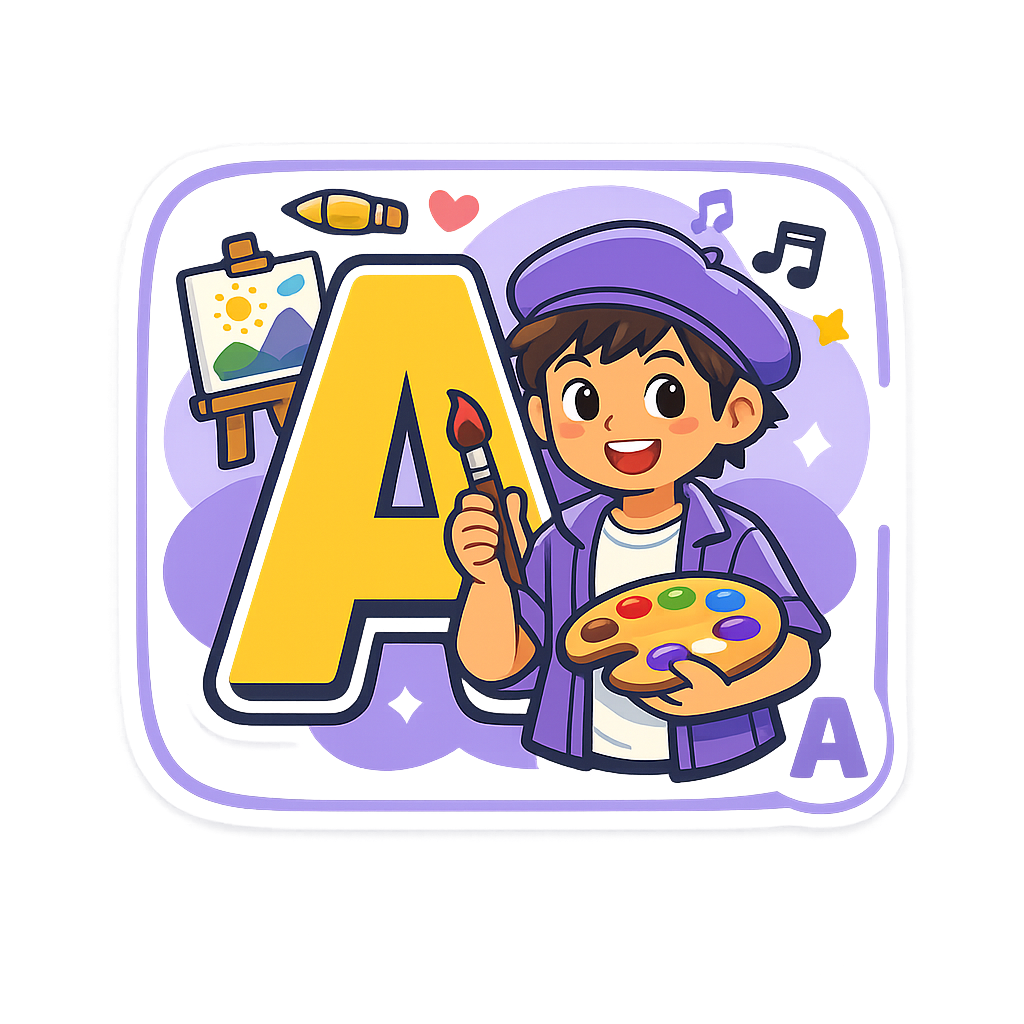
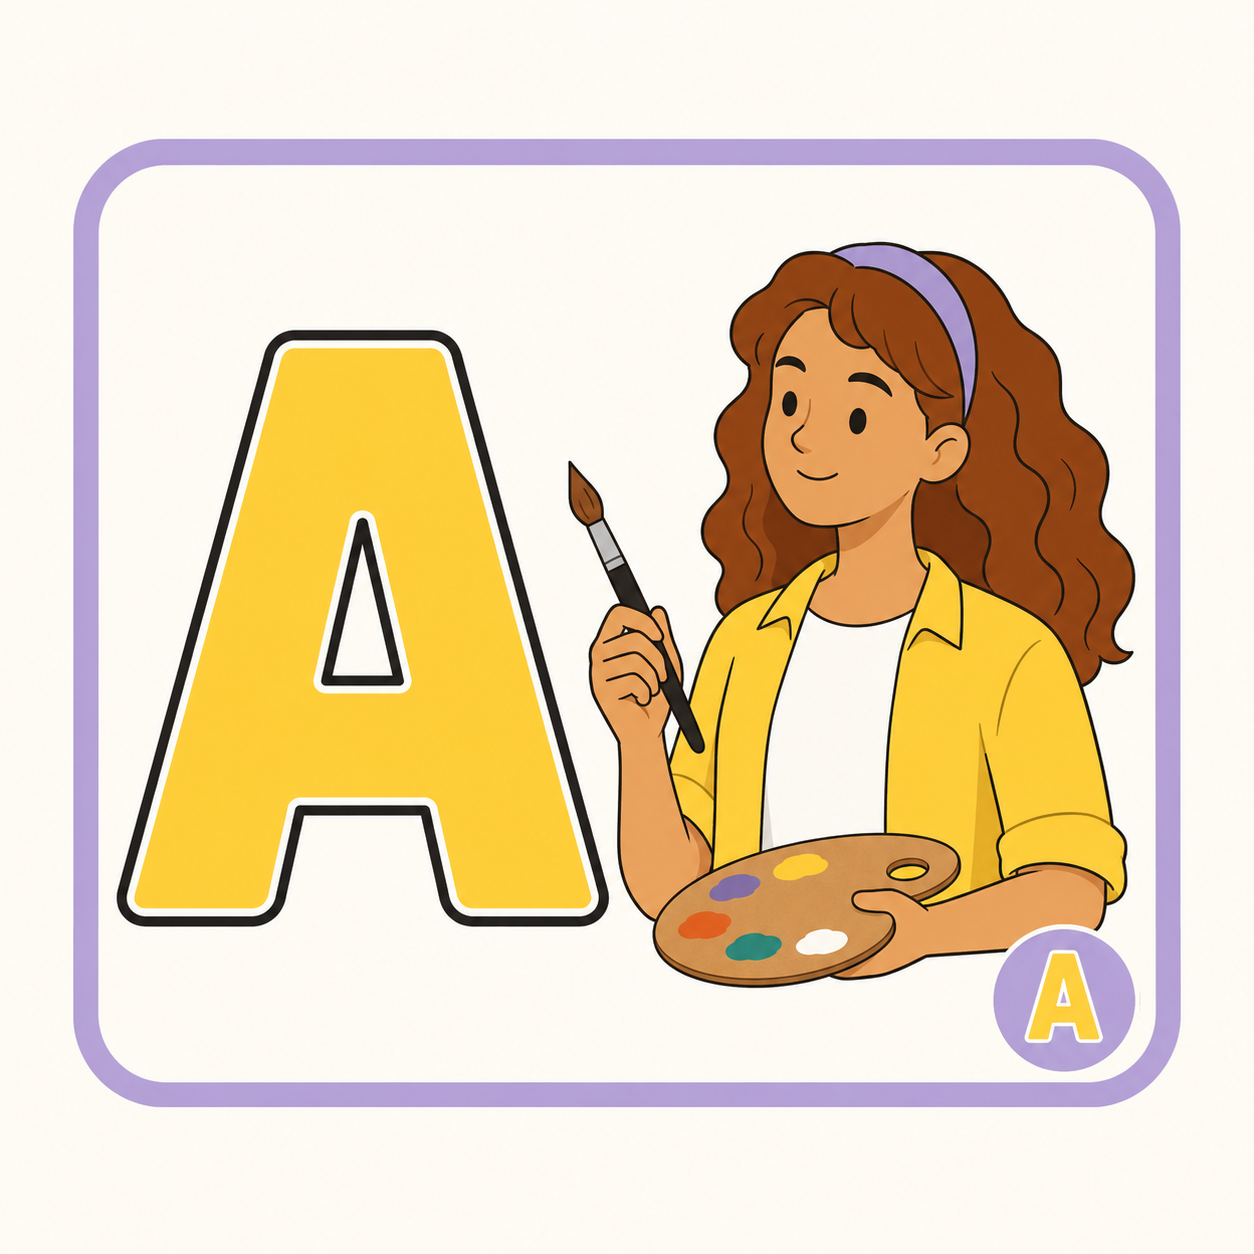
feat(landing): ship consistent RIASEC stickers and v2.9 prompts
Replace landing RIASEC placeholders with the approved set and lock
frame size, letter style, and framing rules for future regenerations.

diff --git a/docs/plans/asset-prompts/README.md b/docs/plans/asset-prompts/README.md
@@ -18,24 +18,25 @@ Optional: skip steps 3–4 if reusing `src/assets/landing/placeholders/blobs/*.p
 
 ---
 
-## RIASEC landing stickers (2D) — v2.5 questionnaire-sticker hybrid
+## RIASEC landing stickers (2D) — v2.9 identical width + height
 
 **Schema:** `_schema-riasec-landing-v2.json`  
-**Mode:** Keep the current landing sticker composition, border shape, large letter, and corner badge. Replace only the inside character with questionnaire-style art.
+**Mode:** Every letter uses the **same frame width and height**. Large letters follow R/S/C recipe. Waist-up flush crop.
 
 ### Locked rules
 
 | Rule | Value |
 |------|-------|
-| Canvas fill | Full canvas `#FDFCF8` landing paper |
-| Transparency | Not required |
-| Inside frame | `#FDFCF8` paper fill, **not** black |
-| Character style | Questionnaire-style unDraw flat vector |
-| Outline | Thin `#2D2D2D` outline on **character only** |
-| Eyes | Minimal dot eyes |
-| Facing | Character angles slightly inward-left toward large letter |
-| Props | 1 hero prop + at most 1 support prop |
-| Forbidden | Cloud backdrops, black fill, white sticker cutout, extra clutter |
+| Canvas | Exact **1024×1024**, fill `#FDFCF8` |
+| Sticker frame | Exact **780 wide × 640 tall** on **every** letter (incl. A) |
+| Margins | Left/right **122px**, top/bottom **192px** |
+| Frame border | Lavender `#B39DDB` (E only: coral `#FF8A65`) |
+| Large letter | Bold rounded **sans** — fill + white inner + dark outer `#2D2D2D`; height ~**420px** |
+| Character height | Head near top inner border; waist **flush** to bottom inner border |
+| Letter A | Same **780×640** — never wider, never shorter; frame lavender |
+| Letter I | **Sans** block I — never serif/slab |
+| Letter C clipboard | **Back** faces viewer — not checklist front |
+| Forbidden | Different frame heights, short wide A, serif I, floating gap, full body |
 
 | Letter | Archetype | Results color | JSON |
 |--------|-----------|---------------|------|
